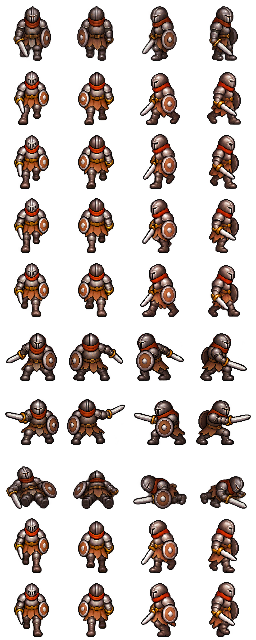
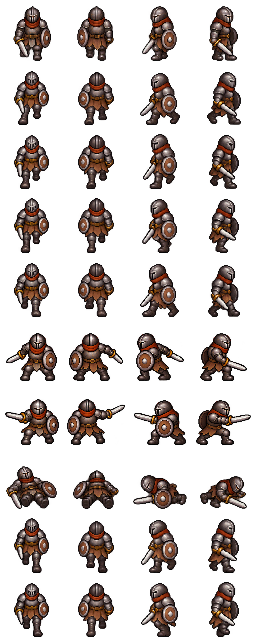
fix(client): keep class colors consistent during movement (#110)

diff --git a/tests-new/player-art.spec.ts b/tests-new/player-art.spec.ts
@@ -1,7 +1,7 @@
 import { test, expect } from "./fixtures";
 import { writeFile } from "node:fs/promises";
 
-test("all player poses have safe cell gutters and six distinct walking images", async ({
+test("all player poses have safe gutters, six distinct gaits and stable standing colors", async ({
   page,
 }) => {
   await page.goto("/?art-gallery");
@@ -24,6 +24,23 @@ test("all player poses have safe cell gutters and six distinct walking images", 
     images.forEach((image, i) => {
       if (image.width !== 256 || image.height !== 640) failures.push(`${names[i]} size`);
       for (let col = 0; col < 4; col++) {
+        ctx.clearRect(0, 0, 64, 64);
+        ctx.drawImage(image, col * 64, 0, 64, 64, 0, 0, 64, 64);
+        const idle = ctx.getImageData(0, 0, 64, 64).data;
+        const palette: number[][] = [];
+        const idleTone = [0, 0, 0];
+        let idleCount = 0;
+        for (let i = 0; i < idle.length; i += 4)
+          if (idle[i + 3] >= 128) {
+            palette.push([idle[i], idle[i + 1], idle[i + 2]]);
+            if (idle[i + 3] >= 200) {
+              idleCount++;
+              idleTone.forEach((_, channel) => (idleTone[channel] += idle[i + channel]));
+            }
+          }
+        const walkTone = [0, 0, 0];
+        let walkCount = 0;
+        const checked = new Set<string>();
         const distinct = new Set<string>();
         const feet = new Set<string>();
         const contacts: number[] = [];
@@ -41,6 +58,23 @@ test("all player poses have safe cell gutters and six distinct walking images", 
             }
           if (count < 100) failures.push(`${names[i]} ${col},${row} empty`);
           if (walks.includes(row)) {
+            for (let p = 0; p < pixels.length; p += 4) {
+              if (pixels[p + 3] < 200) continue;
+              const rgb = [pixels[p], pixels[p + 1], pixels[p + 2]];
+              walkCount++;
+              walkTone.forEach((_, channel) => (walkTone[channel] += rgb[channel]));
+              const key = rgb.join(",");
+              if (checked.has(key)) continue;
+              checked.add(key);
+              // Allow canvas alpha round-trip rounding, but reject a new tone
+              // introduced by a separately generated animation sheet.
+              if (
+                !palette.some((color) =>
+                  color.every((value, channel) => Math.abs(value - rgb[channel]) <= 3),
+                )
+              )
+                failures.push(`${names[i]} ${col},${row} changes standing palette: ${key}`);
+            }
             distinct.add(tile.toDataURL());
             // Alpha only: recoloring robes or animating a weapon must not hide
             // a frozen lower-leg silhouette. Inspect the bottom eight pixels.
@@ -60,6 +94,14 @@ test("all player poses have safe cell gutters and six distinct walking images", 
             if (contactPixels) contacts.push(contactX / contactPixels);
           }
         }
+        // A sheet can use the right colors yet look brighter by overusing its
+        // highlights. Compare the whole six-phase cycle to standing at rest.
+        if (
+          idleTone.some(
+            (sum, channel) => Math.abs(sum / idleCount - walkTone[channel] / walkCount) > 5,
+          )
+        )
+          failures.push(`${names[i]} ${col} changes overall standing tone`);
         if (distinct.size !== 6) failures.push(`${names[i]} ${col} repeated gait`);
         if (feet.size < 4) failures.push(`${names[i]} ${col} passive feet`);
         // Front/back must transfer ground contact between two foot tracks,
@@ -95,7 +137,7 @@ test("all player poses have safe cell gutters and six distinct walking images", 
     const out = preview.getContext("2d")!;
     out.imageSmoothingEnabled = false;
     const frames: string[] = [];
-    for (const row of walks) {
+    for (const row of [0, ...walks]) {
       out.fillStyle = "#202a25";
       out.fillRect(0, 0, 800, 760);
       out.font = "18px sans-serif";
@@ -114,7 +156,7 @@ test("all player poses have safe cell gutters and six distinct walking images", 
   });
   expect(result.failures).toEqual([]);
   for (const [i, png] of result.frames.entries())
-    await writeFile(`test-results/player-walk-${i}.png`, Buffer.from(png, "base64"));
+    await writeFile(`test-results/player-pose-${i}.png`, Buffer.from(png, "base64"));
 });
 
 test("class movement page shows every direction and supports gait inspection", async ({ page }) => {

diff --git a/packages/client-new/public/assets/wardrobe-style/REVISION-PROMPTS.md b/packages/client-new/public/assets/wardrobe-style/REVISION-PROMPTS.md
@@ -22,6 +22,19 @@ Production game sprite sheet: exact same druid design, palette and pixel style a
 
 Corrections: ranger front poses were regenerated with bow on screen-left; druid front poses were regenerated with staff on screen-left. Mage idle was regenerated as a separate down/up/left/right turnaround. Warrior supplemental poses use a single sword in the right hand, with a waist-level anticipation and extended release. Existing original sheets and license notices remain intact.
 
+### Required color continuity for every class generation and revision
+
+Use the approved standing turnaround as the color authority for each direction.
+Keep identical material hues, saturation, brightness, shadow colors, highlights
+and outline tones in idle, every walk phase, attacks and fallen poses. Change
+pose only; do not brighten, darken, recolor or relight the costume, skin, hair,
+weapons or equipment when the character moves. Walk-only replacements must match
+the existing idle palette, including previously accepted directions. Compare
+idle to every gait phase side by side and while starting/stopping at game size
+on the same background and lighting; reject visible tone jumps. Atlas packaging
+also locks walking RGB to the matching standing direction's palette without
+changing alpha or geometry.
+
 ### warrior-walk
 
 Replacement WALK ONLY sprite sheet for the exact warrior character in reference. Preserve costume, colors, equipment and crisp warm woodland pixel art. Exact FOUR columns by FOUR rows, sixteen full-body sprites evenly spaced with transparent margins. Columns: facing DOWN front, UP back, LEFT profile, RIGHT profile. Rows temporal gait phases: 1 LEFT leg fully forward RIGHT leg fully back (wide contact pose); 2 left planted while RIGHT knee lifted forward passing below pelvis; 3 RIGHT leg fully forward LEFT leg fully back (opposite wide contact); 4 right planted while LEFT knee lifted passing. CRITICAL visible alternating anatomical legs and boots in all frames, distinct opposite contacts. Do not repeat same leading leg. Robe split exposes boots and knees. Arms counter-swing and coat hem sways. All bodies SAME HEIGHT and baseline, head centered in each cell, consistent camera. No attack or fallen poses, no labels grid floor or cast shadow. Four by four square sheet.

diff --git a/packages/client-new/public/assets/wardrobe-style/README.md b/packages/client-new/public/assets/wardrobe-style/README.md
@@ -26,6 +26,17 @@ the unwanted painted background while preserving the 24 poses.
 Whole-frame uniqueness is insufficient: the lower-leg alpha silhouettes must
 change, and the loop must be reviewed enlarged and at game size.
 
+Color continuity is mandatory for every class generation and revision: use the
+approved idle turnaround as the direction-specific palette reference. Keep
+material hues, saturation, brightness, shading, highlights and outlines identical
+across idle, walking, attacks and fallen poses. Do not relight or recolor motion
+frames. Compare idle with all six gait phases and start/stop transitions on the
+same background at game size and enlarged; reject visible tone jumps. See the
+required rule in [REVISION-PROMPTS.md](REVISION-PROMPTS.md). Packaging matches the
+walking tonal distribution to idle, then maps walk RGB to the nearest standing
+color for the same direction with one mapping for all six phases, preserving alpha and all
+existing geometry; idle, attack and fallen pixels are untouched.
+
 The `*-stride-revised.png` sources refine the remaining directions after visual
 feedback. Packaging retains Warrior left/right and Ranger down from the earlier
 stride sheets at exactly their earlier scale. Other columns use the revised

diff --git a/docs/design/new-runtime.md b/docs/design/new-runtime.md
@@ -173,6 +173,10 @@ Player atlases are packaged offline into 64px cells with transparent gutters.
 Rows 0–7 retain idle, four walk poses, windup, release and fallen; rows 8–9
 add two walk poses. The six-pose cycle uses rows 1, 2, 3, 4, 8, 9.
 Walk-only sheets replace those six rows during packaging, preserving other poses.
+Packaging matches the walking color distribution to idle, then maps RGB colors
+to the same direction's standing palette with one mapping for the whole cycle,
+leaving alpha, silhouettes, scale, anchors and non-walk pixels unchanged. This
+prevents independently generated walk sheets from changing material tones.
 Direction-specific revisions retain accepted source columns with their original
 normalization, so changing another direction cannot rescale approved animation.
 The class-movement page shares the game's atlas loader and gait selector, showing

diff --git a/docs/specs/graphics.md b/docs/specs/graphics.md
@@ -67,6 +67,8 @@ Lanterns use four painted frames. Portals use a single regenerated stone arch:
 only the energy inside its aperture moves. Idle breathing, damage flashes and death fades remain
 procedural. All four player classes use six distinct walking poses per direction,
 with consistent weapon hands across idle, walking, attack and fallen poses.
+Each class keeps the same material colors, saturation, brightness and shading
+across idle and motion; starting or stopping must not visibly recolor the character.
 Player frames have transparent gutters and a stable scale and foot anchor;
 heads and weapons must stay entirely within their own frame.
 Runner and caster still reuse one of three poses. Druid standing/walking body
